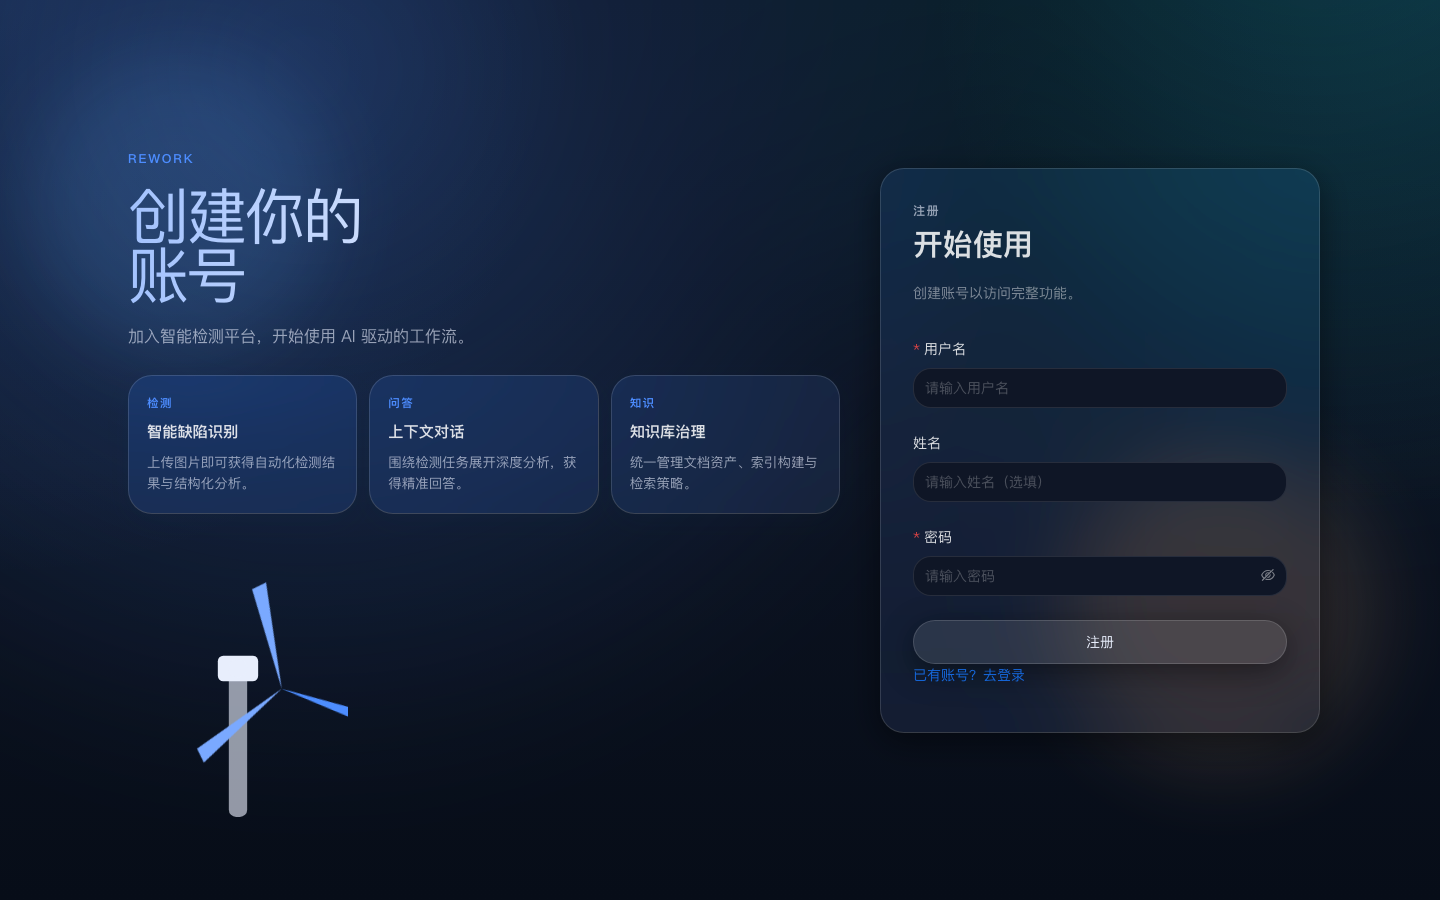
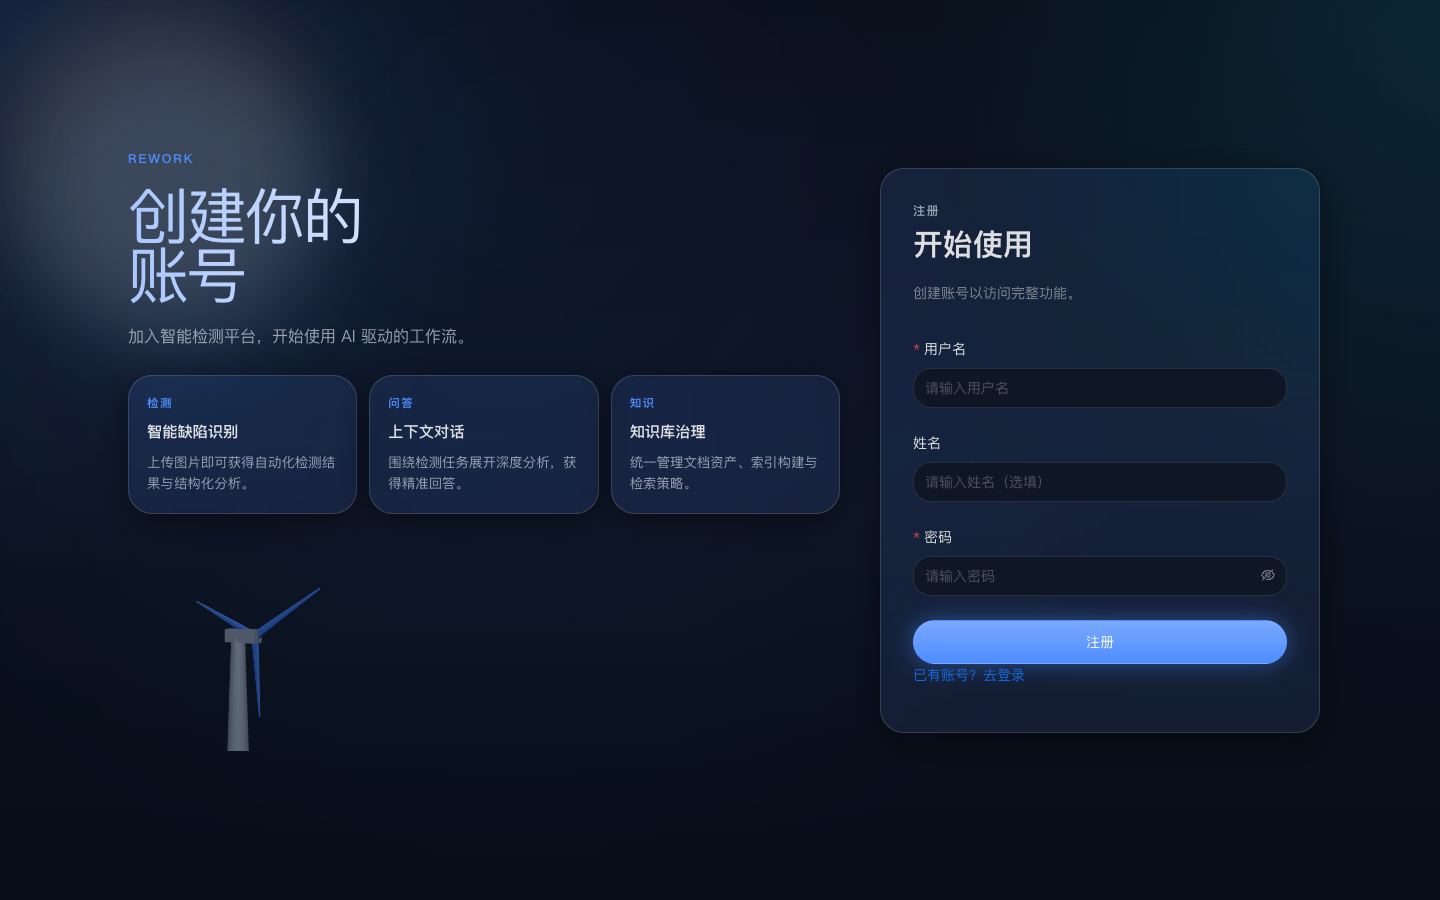
fix(ui): harden facade motion and recapture shots
Pause WebGL rAF when the tab is hidden, honor
reduced-motion on the 3D turbine, and give auth
CTAs a primary GlassButton so the checkpoint
screenshots show a readable login action.

diff --git a/frontend/myapp/src/shared/ui/WindTurbine3D.tsx b/frontend/myapp/src/shared/ui/WindTurbine3D.tsx
@@ -1,4 +1,5 @@
 import * as React from "react"
+import { useReducedMotion } from "motion/react"
 
 import { WindTurbineSvg } from "./WindTurbineSvg"
 
@@ -19,10 +20,15 @@ function canUseWebGL() {
 
 export function WindTurbine3D({ boost = false, spinning = true, stopped = false }: WindTurbine3DProps) {
   const hostRef = React.useRef<HTMLDivElement>(null)
+  const reduceMotion = useReducedMotion()
   const flagsRef = React.useRef({ boost, spinning, stopped })
   const [fallback, setFallback] = React.useState(() => !canUseWebGL())
 
-  flagsRef.current = { boost, spinning, stopped }
+  flagsRef.current = {
+    boost: boost && !reduceMotion,
+    spinning: spinning && !reduceMotion,
+    stopped: stopped || Boolean(reduceMotion),
+  }
 
   React.useEffect(() => {
     if (fallback) {
@@ -64,14 +70,16 @@ export function WindTurbine3D({ boost = false, spinning = true, stopped = false 
 
         const hub = new THREE.Group()
         hub.position.set(0.32, 1.24, 0)
-        const bladeGeometry = new THREE.ConeGeometry(0.065, 1.2, 7)
-        bladeGeometry.translate(0, 0.6, 0)
+        const bladeGeometry = new THREE.CylinderGeometry(0.016, 0.072, 1.32, 8)
+        bladeGeometry.translate(0, 0.66, 0)
+        bladeGeometry.scale(1, 1, 0.32)
         const bladeMaterial = new THREE.MeshStandardMaterial({ color: 0x4d8dff, metalness: 0.2, roughness: 0.35 })
         for (let index = 0; index < 3; index += 1) {
           const blade = new THREE.Mesh(bladeGeometry, bladeMaterial)
           blade.rotation.z = (index * Math.PI * 2) / 3
           hub.add(blade)
         }
+        hub.add(new THREE.Mesh(new THREE.SphereGeometry(0.08, 12, 12), metal))
 
         const key = new THREE.DirectionalLight(0xffffff, 1.15)
         key.position.set(3, 5, 4)
@@ -80,11 +88,14 @@ export function WindTurbine3D({ boost = false, spinning = true, stopped = false 
         let frame = 0
         let last = performance.now()
         const tick = (now: number) => {
+          frame = 0
+          if (document.visibilityState === "hidden") {
+            return
+          }
           const delta = (now - last) / 1000
           last = now
-          const hidden = document.visibilityState === "hidden"
           const flags = flagsRef.current
-          if (!hidden && flags.spinning && !flags.stopped) {
+          if (flags.spinning && !flags.stopped) {
             hub.rotation.z += delta * (flags.boost ? 11 : 2.6)
           }
           renderer.render(scene, camera)
@@ -94,6 +105,14 @@ export function WindTurbine3D({ boost = false, spinning = true, stopped = false 
         const onVisibility = () => {
           if (document.visibilityState === "visible") {
             last = performance.now()
+            if (!frame) {
+              frame = requestAnimationFrame(tick)
+            }
+            return
+          }
+          if (frame) {
+            cancelAnimationFrame(frame)
+            frame = 0
           }
         }
         document.addEventListener("visibilitychange", onVisibility)

diff --git a/frontend/myapp/src/index.css b/frontend/myapp/src/index.css
@@ -2245,7 +2245,7 @@ textarea {
   background: var(--glass-bg);
   border: 1px solid var(--glass-border);
   border-radius: var(--radius-lg);
-  box-shadow: 0 8px 32px rgba(30, 58, 104, 0.08);
+  box-shadow: var(--glass-shadow);
   display: grid;
   gap: 8px;
   padding: 18px;
@@ -2399,6 +2399,18 @@ textarea {
   width: 100%;
 }
 
+.glass-button--primary {
+  background: linear-gradient(180deg, var(--accent-strong), var(--accent));
+  border-color: transparent;
+  box-shadow: var(--glow-accent);
+  color: #fff;
+}
+
+.glass-button--primary:hover:not(:disabled) {
+  background: var(--accent-strong);
+  box-shadow: var(--glow-cyan);
+}
+
 .aurora-background {
   isolation: isolate;
   min-height: 100%;
@@ -2478,7 +2490,7 @@ textarea {
   color: var(--accent);
   height: 100%;
   inset: 0;
-  opacity: 0.45;
+  opacity: 0.72;
   pointer-events: none;
   position: absolute;
   width: 100%;

diff --git a/frontend/myapp/src/pages/LoginPage.jsx b/frontend/myapp/src/pages/LoginPage.jsx
@@ -97,7 +97,7 @@ export function LoginPage() {
           <Form.Item label="密码" name="password" rules={[{ required: true, message: "请输入密码" }]}>
             <Input.Password disabled={locked} placeholder="请输入密码" />
           </Form.Item>
-          <GlassButton className="glass-button--block" disabled={locked || submitting} type="submit">
+          <GlassButton className="glass-button--block glass-button--primary" disabled={locked || submitting} type="submit">
             {submitting ? "叶片加速中" : "登录"}
           </GlassButton>
         </Form>

diff --git a/frontend/myapp/src/pages/RegisterPage.jsx b/frontend/myapp/src/pages/RegisterPage.jsx
@@ -56,7 +56,7 @@ export function RegisterPage() {
           <Form.Item label="密码" name="password" rules={[{ required: true, message: "请输入密码" }]}>
             <Input.Password placeholder="请输入密码" />
           </Form.Item>
-          <GlassButton className="glass-button--block" disabled={submitting} type="submit">
+          <GlassButton className="glass-button--block glass-button--primary" disabled={submitting} type="submit">
             注册
           </GlassButton>
         </Form>
